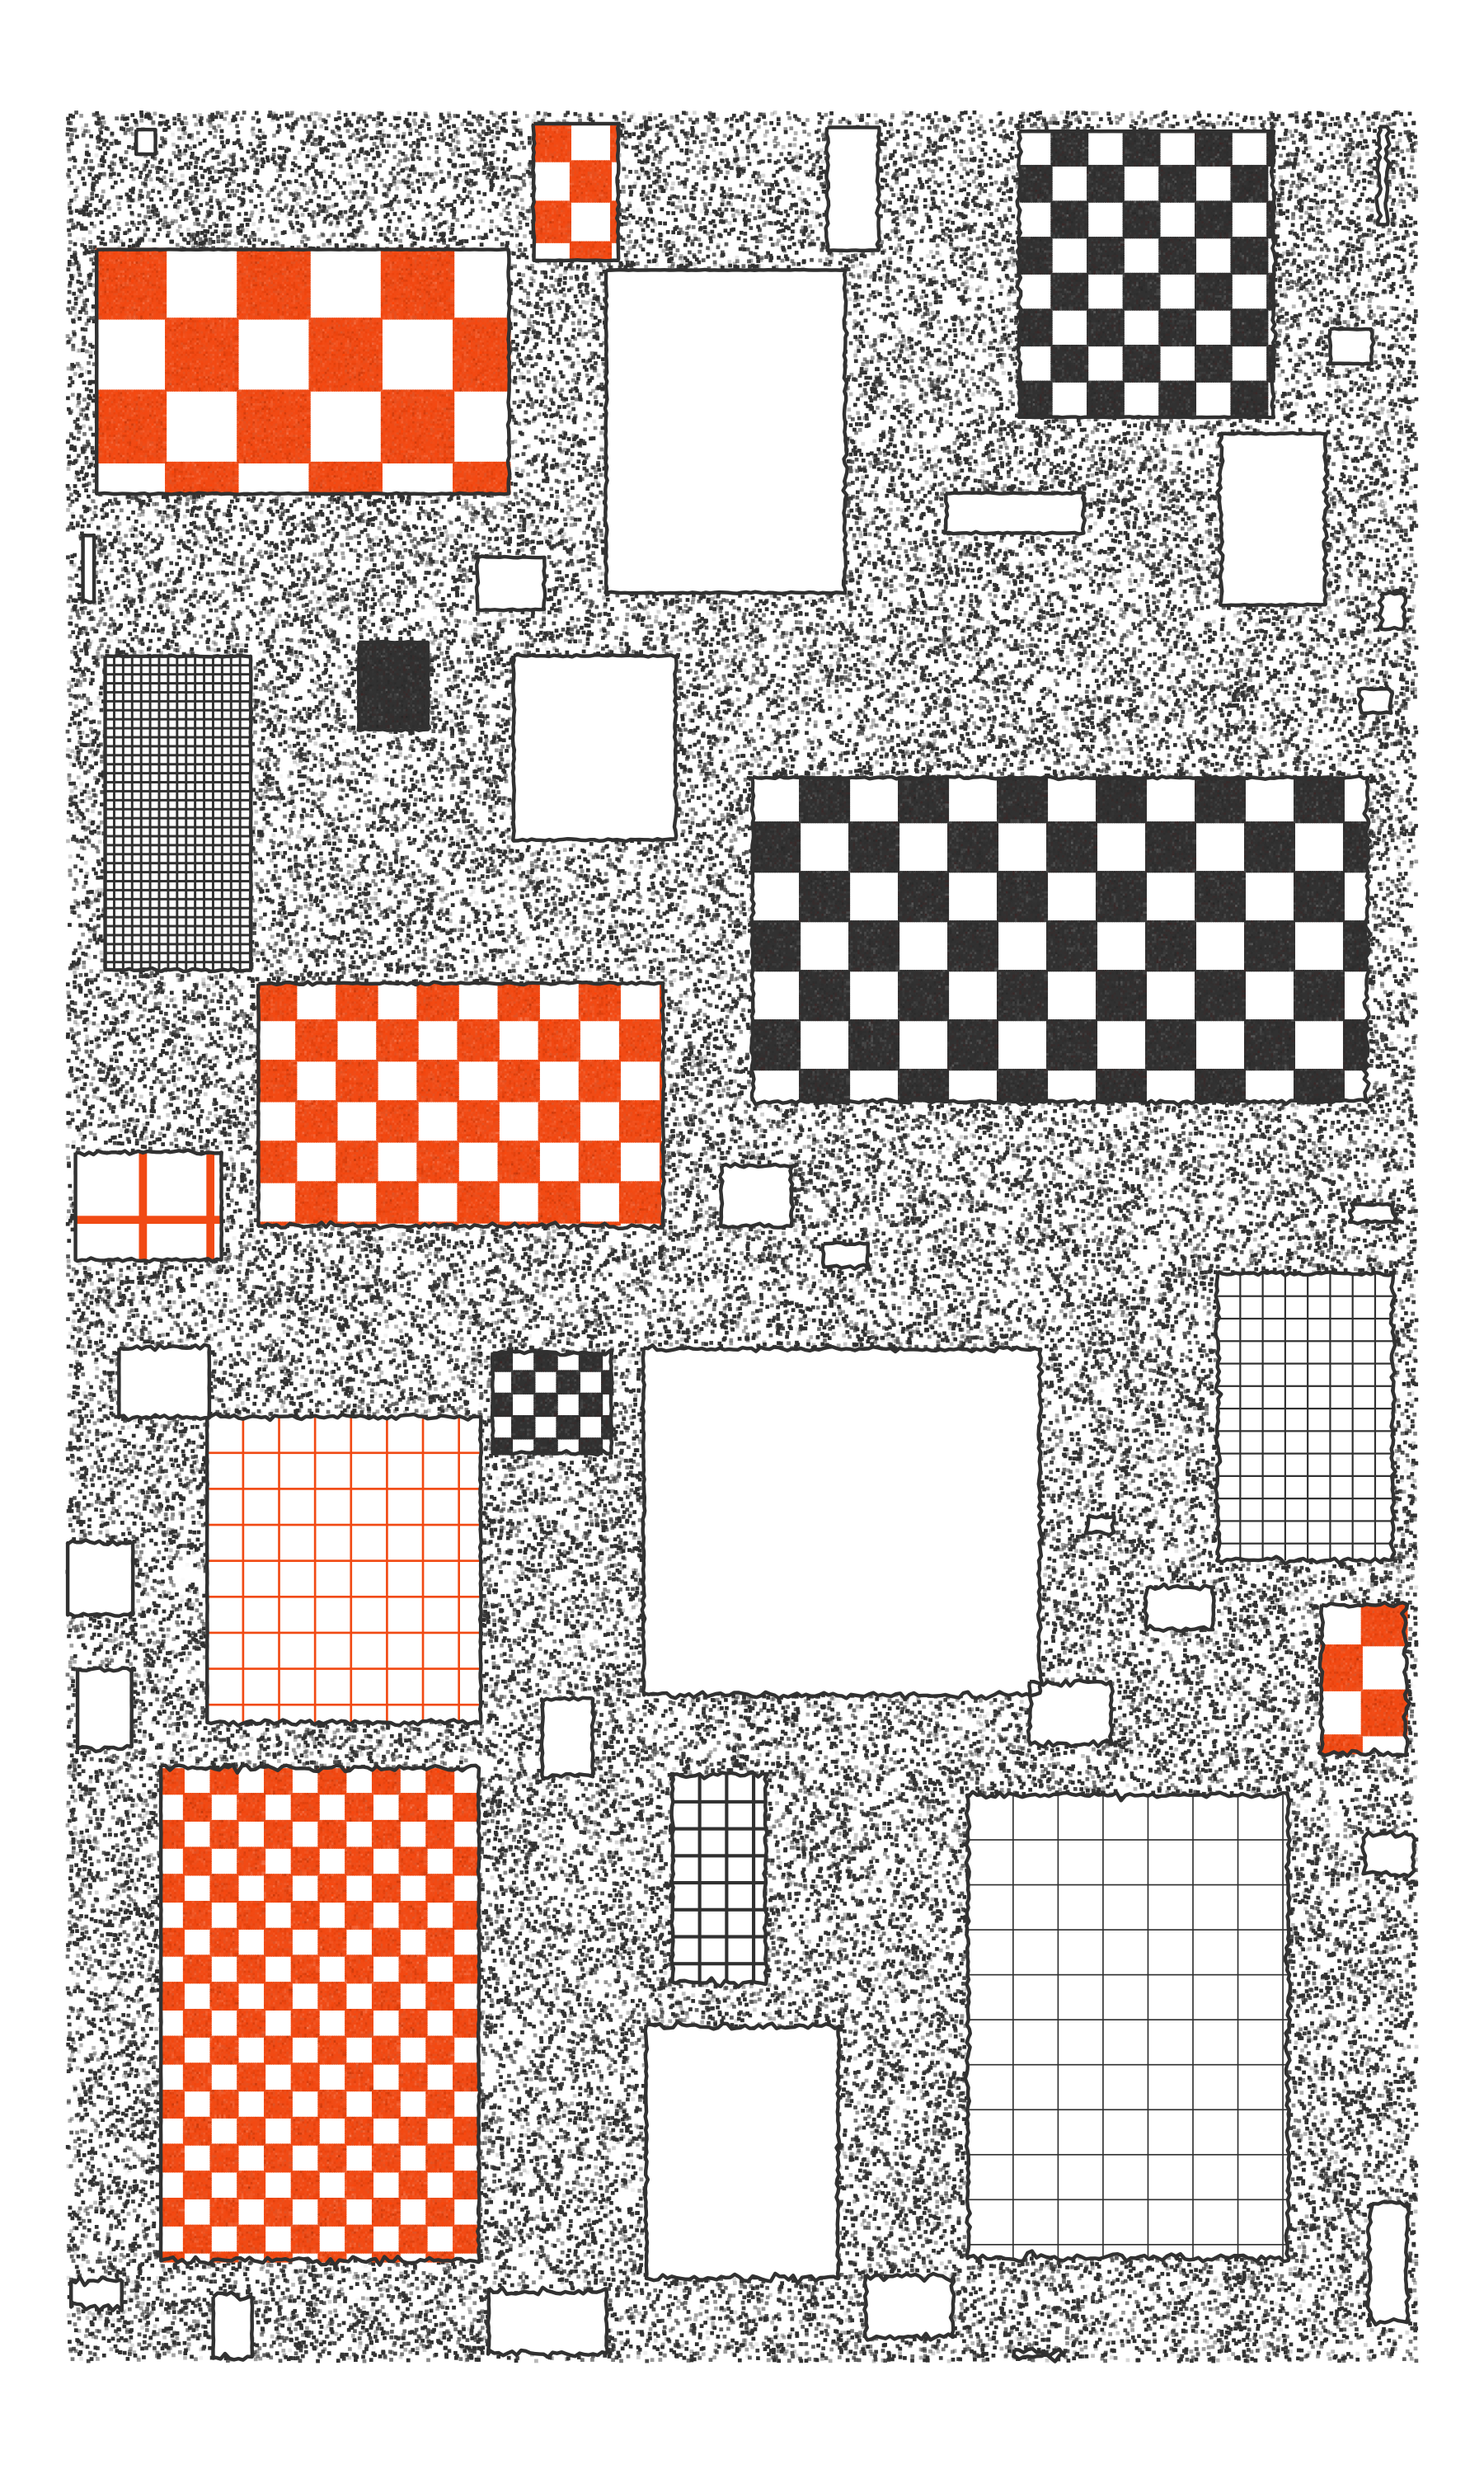
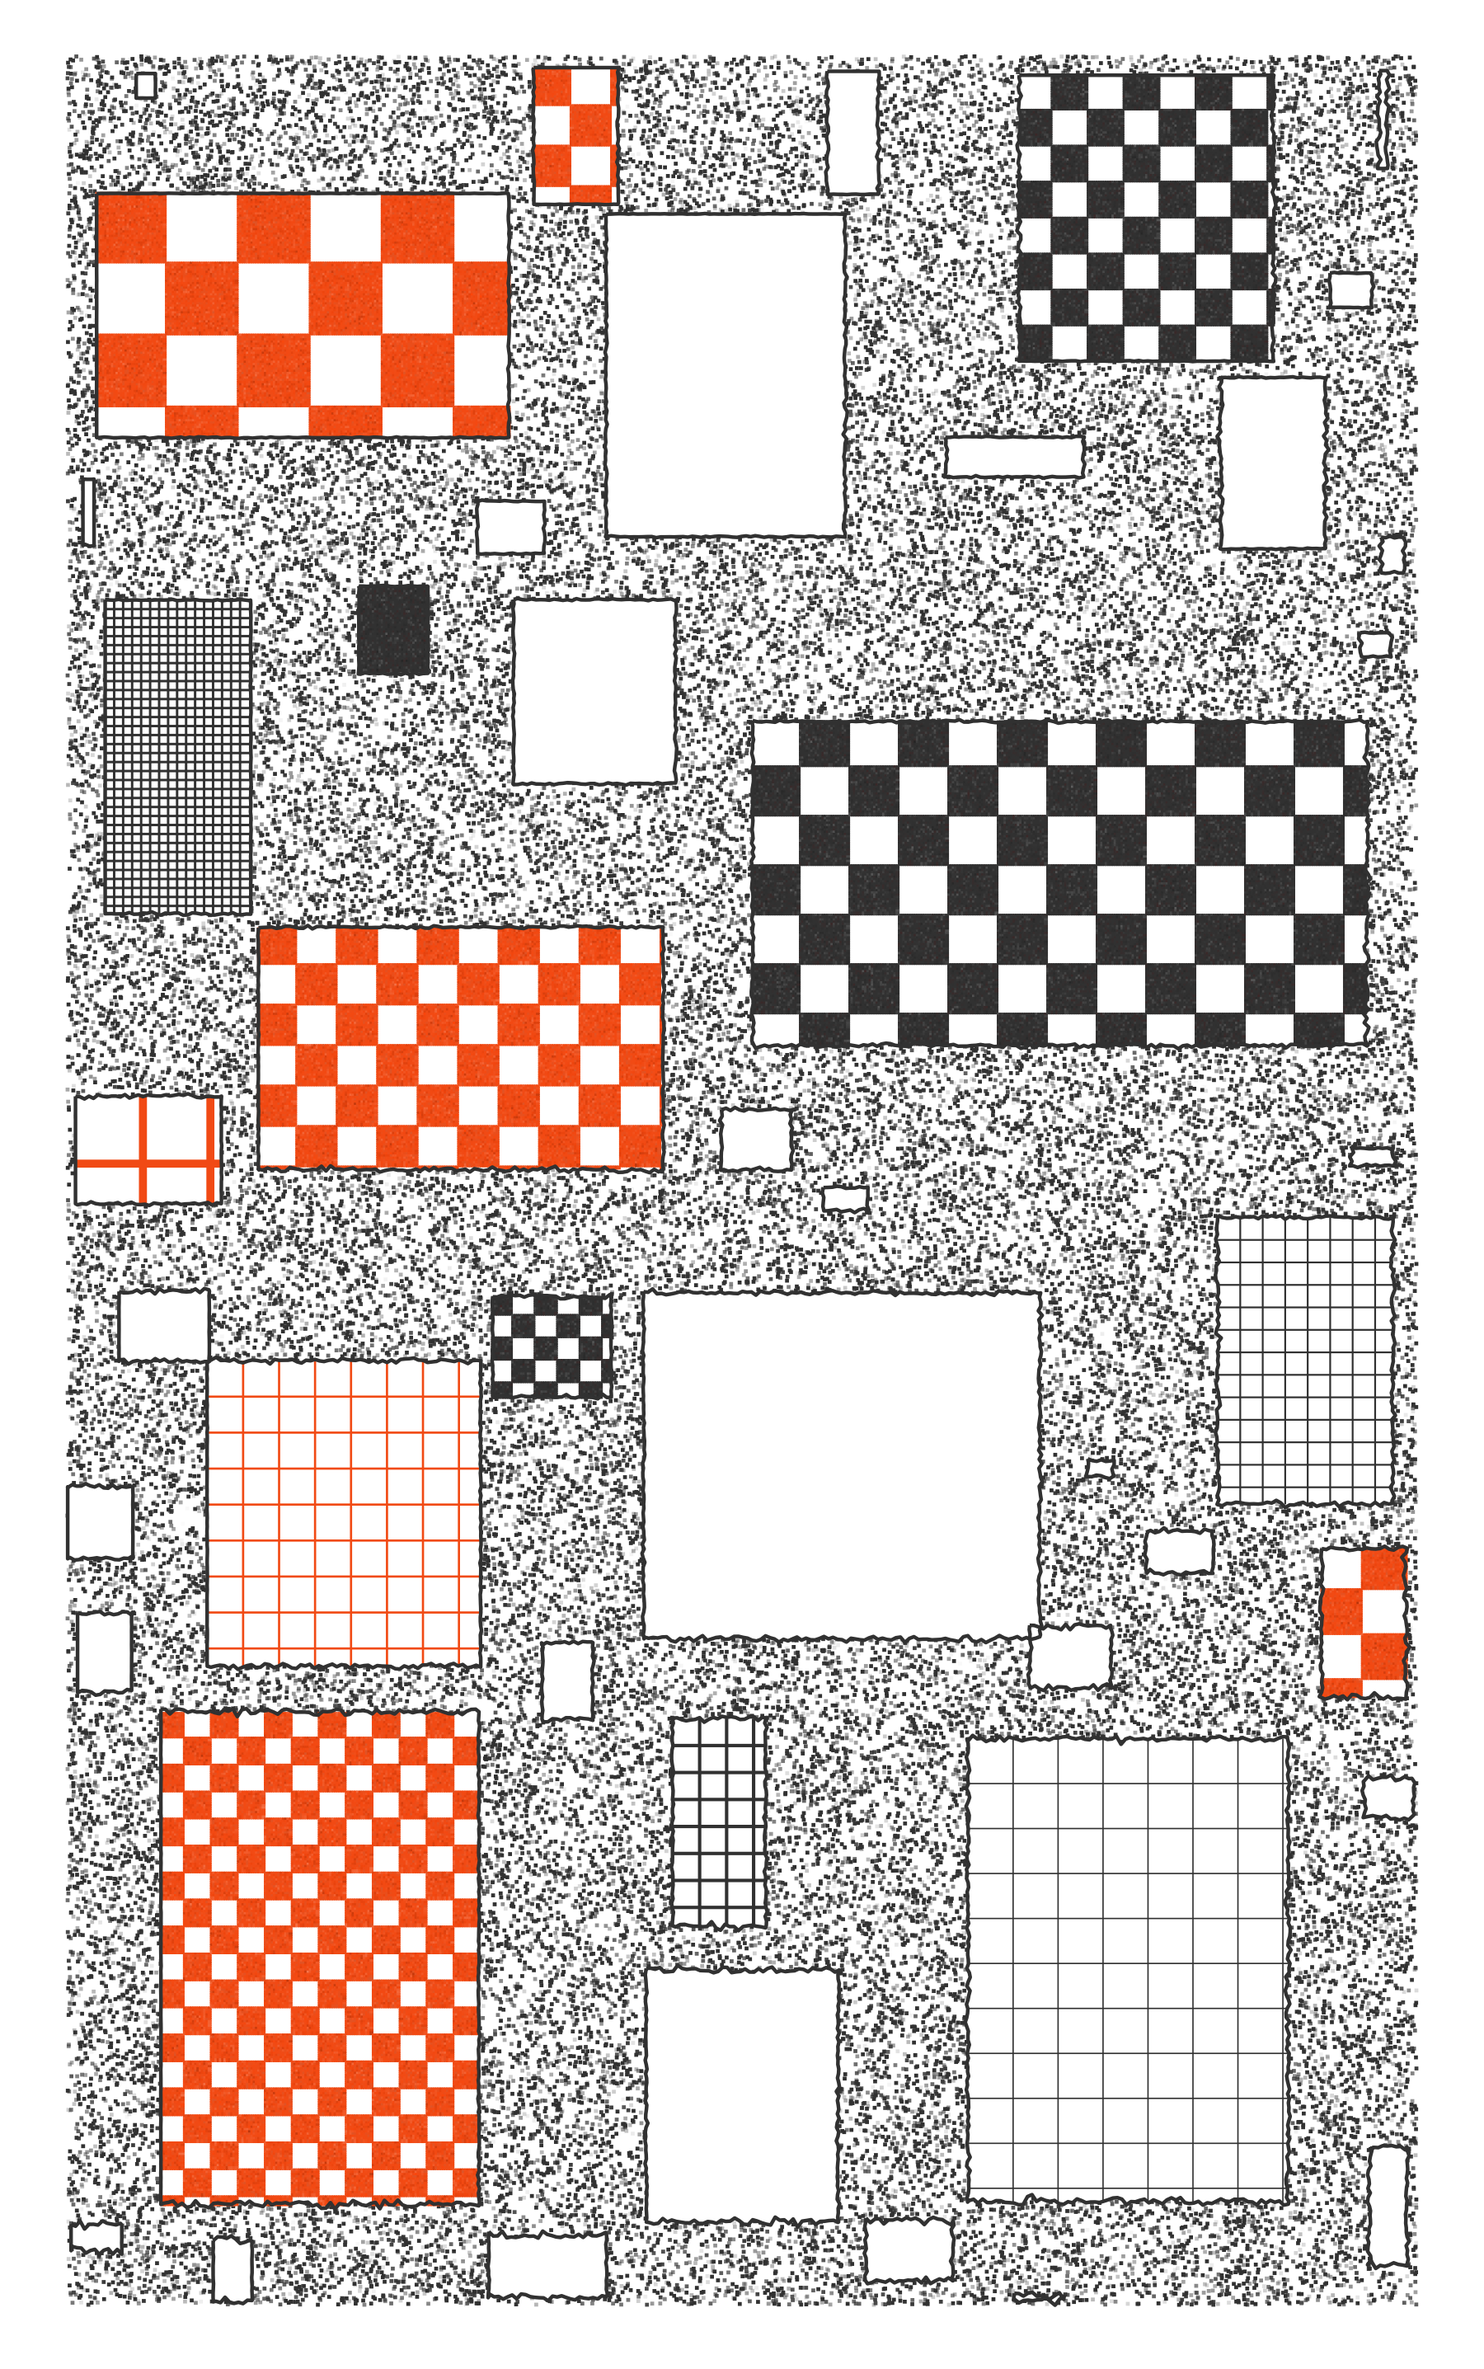
Update README

diff --git a/README.md b/README.md
@@ -31,3 +31,9 @@ Referencing (blatantly) Ijeamaka Anyene's [work](https://twitter.com/ijeamaka_a/
 Inspired by [Wall Drawing 413](https://massmoca.org/event/walldrawing413/)
 
 ![24 sets of squares laid out in 8 columns and 3 rows. Each set contains 4 squares (2 columns and 2 rows), and each square contains 4 squares within it - one red, one lime green, one pink, and one dark blue. The first squares within each sets are all of the possible permutations of the colour placements. The remaining 3 squares in each set are rotations of the first square (i.e. the square mirrored on the x axis, on the y axis, and on both the x and y axes).](07/day_7_noisy_small.png)
+
+## Day 9: Architecture
+
+Inspired by the cover of ["Making Room: Women and Architecture"](https://metropolismag.com/viewpoints/women-feminism-american-architecture/), an edition of the feminist journal Heresies published in 1981
+
+![A black, red, and white image with a noisy black background and thick white border. There are randomly placed rectangles of various sizes, whose borders are jagged and random. Some of the rectangles are white on the inside, some contain a grid (in black or red), and some contain a checkerboard pattern (also in black or red). The grids and checkerboards are of various sizes.](09/day_9_clean_420.png)
